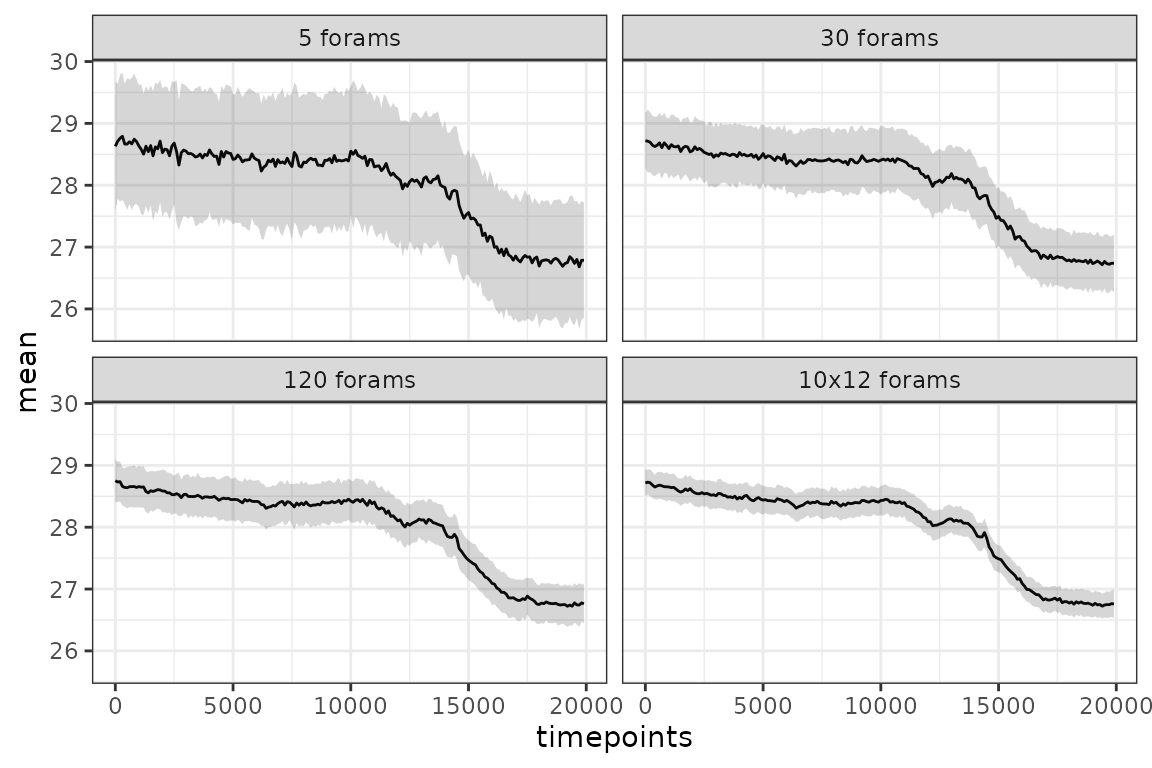
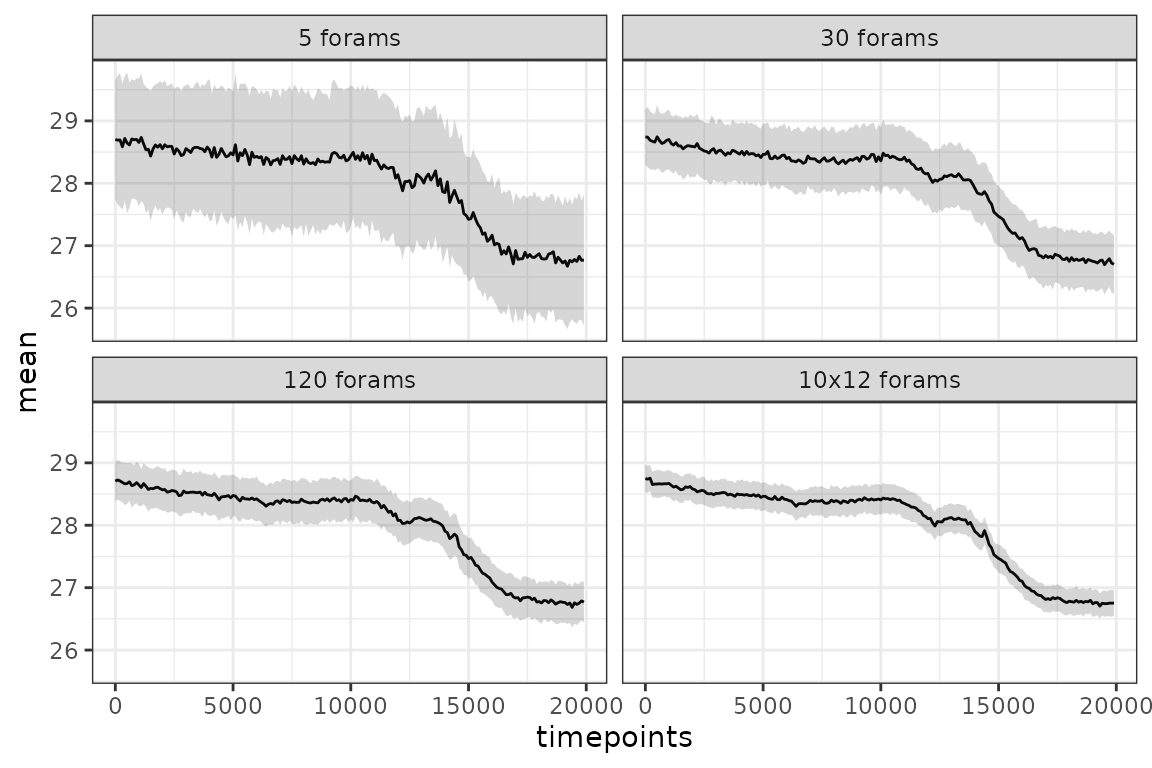
Deploying to gh-pages from @ EarthSystemDiagnostics/sedproxy@2bdf7d2fdefd3b4eab05689751469da8c9740f58 🚀

diff --git a/articles/introduction-to-sedproxy.html b/articles/introduction-to-sedproxy.html
@@ -195,16 +195,16 @@
 <pre><code><span class="co">## <span style="color: #949494;"># A tibble: 28,839 × 7</span></span>
 <span class="co">##    timepoints n.samples replicate stage             value scale       label     </span>
 <span class="co">##         <span style="color: #949494; font-style: italic;">&lt;dbl&gt;</span>     <span style="color: #949494; font-style: italic;">&lt;dbl&gt;</span>     <span style="color: #949494; font-style: italic;">&lt;dbl&gt;</span> <span style="color: #949494; font-style: italic;">&lt;chr&gt;</span>             <span style="color: #949494; font-style: italic;">&lt;dbl&gt;</span> <span style="color: #949494; font-style: italic;">&lt;chr&gt;</span>       <span style="color: #949494; font-style: italic;">&lt;chr&gt;</span>     </span>
-<span class="co">## <span style="color: #BCBCBC;"> 1</span>          1        30         1 proxy.bt.sb.sampY  28.7 Proxy units (4) +Alia…</span>
+<span class="co">## <span style="color: #BCBCBC;"> 1</span>          1        30         1 proxy.bt.sb.sampY  28.8 Proxy units (4) +Alia…</span>
 <span class="co">## <span style="color: #BCBCBC;"> 2</span>        101        30         1 proxy.bt.sb.sampY  28.7 Proxy units (4) +Alia…</span>
 <span class="co">## <span style="color: #BCBCBC;"> 3</span>        201        30         1 proxy.bt.sb.sampY  28.7 Proxy units (4) +Alia…</span>
 <span class="co">## <span style="color: #BCBCBC;"> 4</span>        301        30         1 proxy.bt.sb.sampY  28.7 Proxy units (4) +Alia…</span>
-<span class="co">## <span style="color: #BCBCBC;"> 5</span>        401        30         1 proxy.bt.sb.sampY  28.7 Proxy units (4) +Alia…</span>
+<span class="co">## <span style="color: #BCBCBC;"> 5</span>        401        30         1 proxy.bt.sb.sampY  28.6 Proxy units (4) +Alia…</span>
 <span class="co">## <span style="color: #BCBCBC;"> 6</span>        501        30         1 proxy.bt.sb.sampY  28.7 Proxy units (4) +Alia…</span>
 <span class="co">## <span style="color: #BCBCBC;"> 7</span>        601        30         1 proxy.bt.sb.sampY  28.7 Proxy units (4) +Alia…</span>
 <span class="co">## <span style="color: #BCBCBC;"> 8</span>        701        30         1 proxy.bt.sb.sampY  28.7 Proxy units (4) +Alia…</span>
-<span class="co">## <span style="color: #BCBCBC;"> 9</span>        801        30         1 proxy.bt.sb.sampY  28.6 Proxy units (4) +Alia…</span>
-<span class="co">## <span style="color: #BCBCBC;">10</span>        901        30         1 proxy.bt.sb.sampY  28.6 Proxy units (4) +Alia…</span>
+<span class="co">## <span style="color: #BCBCBC;"> 9</span>        801        30         1 proxy.bt.sb.sampY  28.7 Proxy units (4) +Alia…</span>
+<span class="co">## <span style="color: #BCBCBC;">10</span>        901        30         1 proxy.bt.sb.sampY  28.7 Proxy units (4) +Alia…</span>
 <span class="co">## <span style="color: #949494;"># … with 28,829 more rows</span></span></code></pre>
 <div class="sourceCode" id="cb18"><pre class="downlit sourceCode r">
 <code class="sourceCode R"><span class="va">PFM.5.reps</span><span class="op">$</span><span class="va">everything</span> <span class="op"><a href="https://magrittr.tidyverse.org/reference/pipe.html" class="external-link">%&gt;%</a></span> 
@@ -349,22 +349,22 @@
 <tr class="odd">
 <td align="left">simulated.proxy</td>
 <td align="left">5 forams</td>
-<td align="right">1.0479347</td>
+<td align="right">1.0454658</td>
 </tr>
 <tr class="even">
 <td align="left">simulated.proxy</td>
 <td align="left">30 forams</td>
-<td align="right">0.4893119</td>
+<td align="right">0.4864845</td>
 </tr>
 <tr class="odd">
 <td align="left">simulated.proxy</td>
 <td align="left">120 forams</td>
-<td align="right">0.3306450</td>
+<td align="right">0.3325328</td>
 </tr>
 <tr class="even">
 <td align="left">simulated.proxy</td>
 <td align="left">10x12 forams</td>
-<td align="right">0.2226886</td>
+<td align="right">0.2219919</td>
 </tr>
 </tbody>
 </table>

diff --git a/index.html b/index.html
@@ -63,7 +63,8 @@
   <main id="main" class="col-md-9"><div class="section level1">
 <div class="page-header"><h1 id="sedproxy-simulation-of-sediment-archived-climate-proxy-records">Sedproxy: Simulation of Sediment Archived Climate Proxy Records.<a class="anchor" aria-label="anchor" href="#sedproxy-simulation-of-sediment-archived-climate-proxy-records"></a>
 </h1></div>
-<hr>
+<!-- badges: start -->
+
 <div class="section level2">
 <h2 id="introduction">Introduction<a class="anchor" aria-label="anchor" href="#introduction"></a>
 </h2>
@@ -429,7 +430,12 @@
 </ul>
 </div>
 
-
+<div class="dev-status">
+<h2 data-toc-skip>Dev status</h2>
+<ul class="list-unstyled">
+<li><a href="https://github.com/EarthSystemDiagnostics/sedproxy/actions/workflows/R-CMD-check.yaml" class="external-link"><img src="https://github.com/EarthSystemDiagnostics/sedproxy/actions/workflows/R-CMD-check.yaml/badge.svg" alt="R-CMD-check"></a></li>
+</ul>
+</div>
 
   </aside>
 </div>
